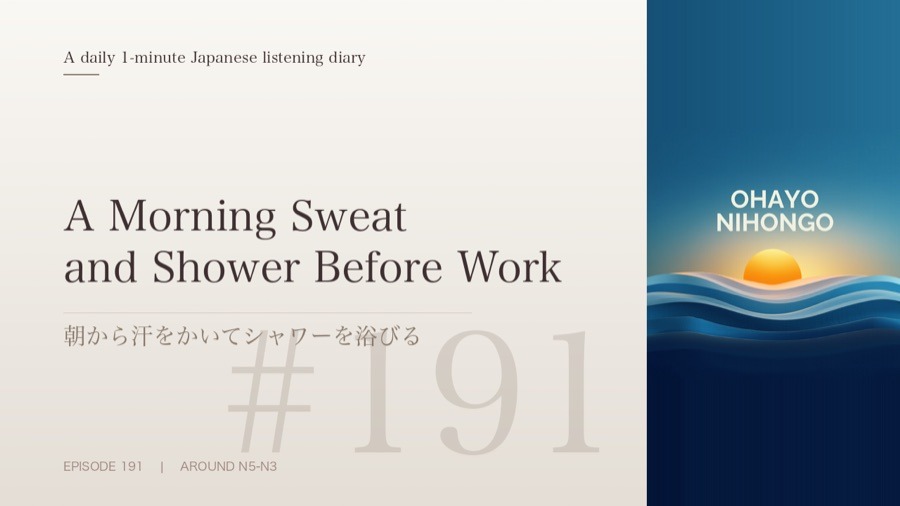
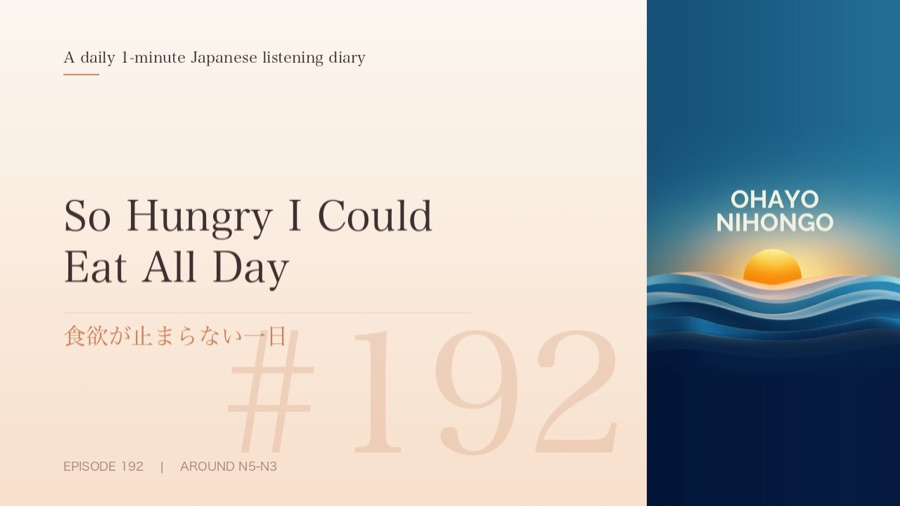
LP: today's diary → #192

Changed region(s): [[0.0622, 0.3854, 0.6222, 0.5632], [0.4667, 0.6522, 0.6844, 0.919], [0.0622, 0.6225, 0.4667, 0.919]]

diff --git a/index.html b/index.html
@@ -201,10 +201,10 @@
 
   <div class="today">
     <!-- LP_EXCERPT_START -->
-    <div class="lbl">From the Diary #191 — きょうの いっぷん</div>
-    <div class="kanji">毎日30度を超える暑さが当たり前になってきて、朝のウォーキングから帰ってくると全身汗でびしょびしょです。</div>
-    <div class="hira">まいにちさんじゅうどをこえるあつさがあたりまえになってきて、あさのうぉーきんぐからかえってくるとぜんしんあせでびしょびしょです。</div>
-    <div class="en">Every morning I walk in 30-degree heat, come home drenched in sweat, and shower before work—it feels surprisingly good.</div>
+    <div class="lbl">From the Diary #192 — きょうの いっぷん</div>
+    <div class="kanji">今日は、朝からずっとお腹が空いてしかたありません。</div>
+    <div class="hira">きょうは、あさからずっとおなかがすいてしかたありません。</div>
+    <div class="en">I was hungry all day—my stomach kept growling at 10:30 AM, 2 PM, and even after dinner at night.</div>
     <!-- LP_EXCERPT_END -->
     <div class="listen-label">Listen to today's 1-minute diary</div>
     <div class="listenBtns">
@@ -213,9 +213,9 @@
     </div>
     <!-- LP_EPTHUMB_START -->
     <a class="ep-thumb" href="https://www.youtube.com/channel/UCkeY8BNsy60KhnYiJ5jteFA" target="_blank" rel="noopener">
-      <img src="img/ep-sample.jpg" alt="OHAYO NIHONGO Episode 191 — A Morning Sweat and Shower Before Work" loading="lazy">
+      <img src="img/ep-sample.jpg" alt="OHAYO NIHONGO Episode 192 — So Hungry I Could Eat All Day" loading="lazy">
     </a>
-    <p class="ep-cap">Episode 191 — a new diary every morning ☀</p>
+    <p class="ep-cap">Episode 192 — a new diary every morning ☀</p>
     <!-- LP_EPTHUMB_END -->
     <a class="today-link" href="/diary/">Read today's diary →</a>
   </div>
